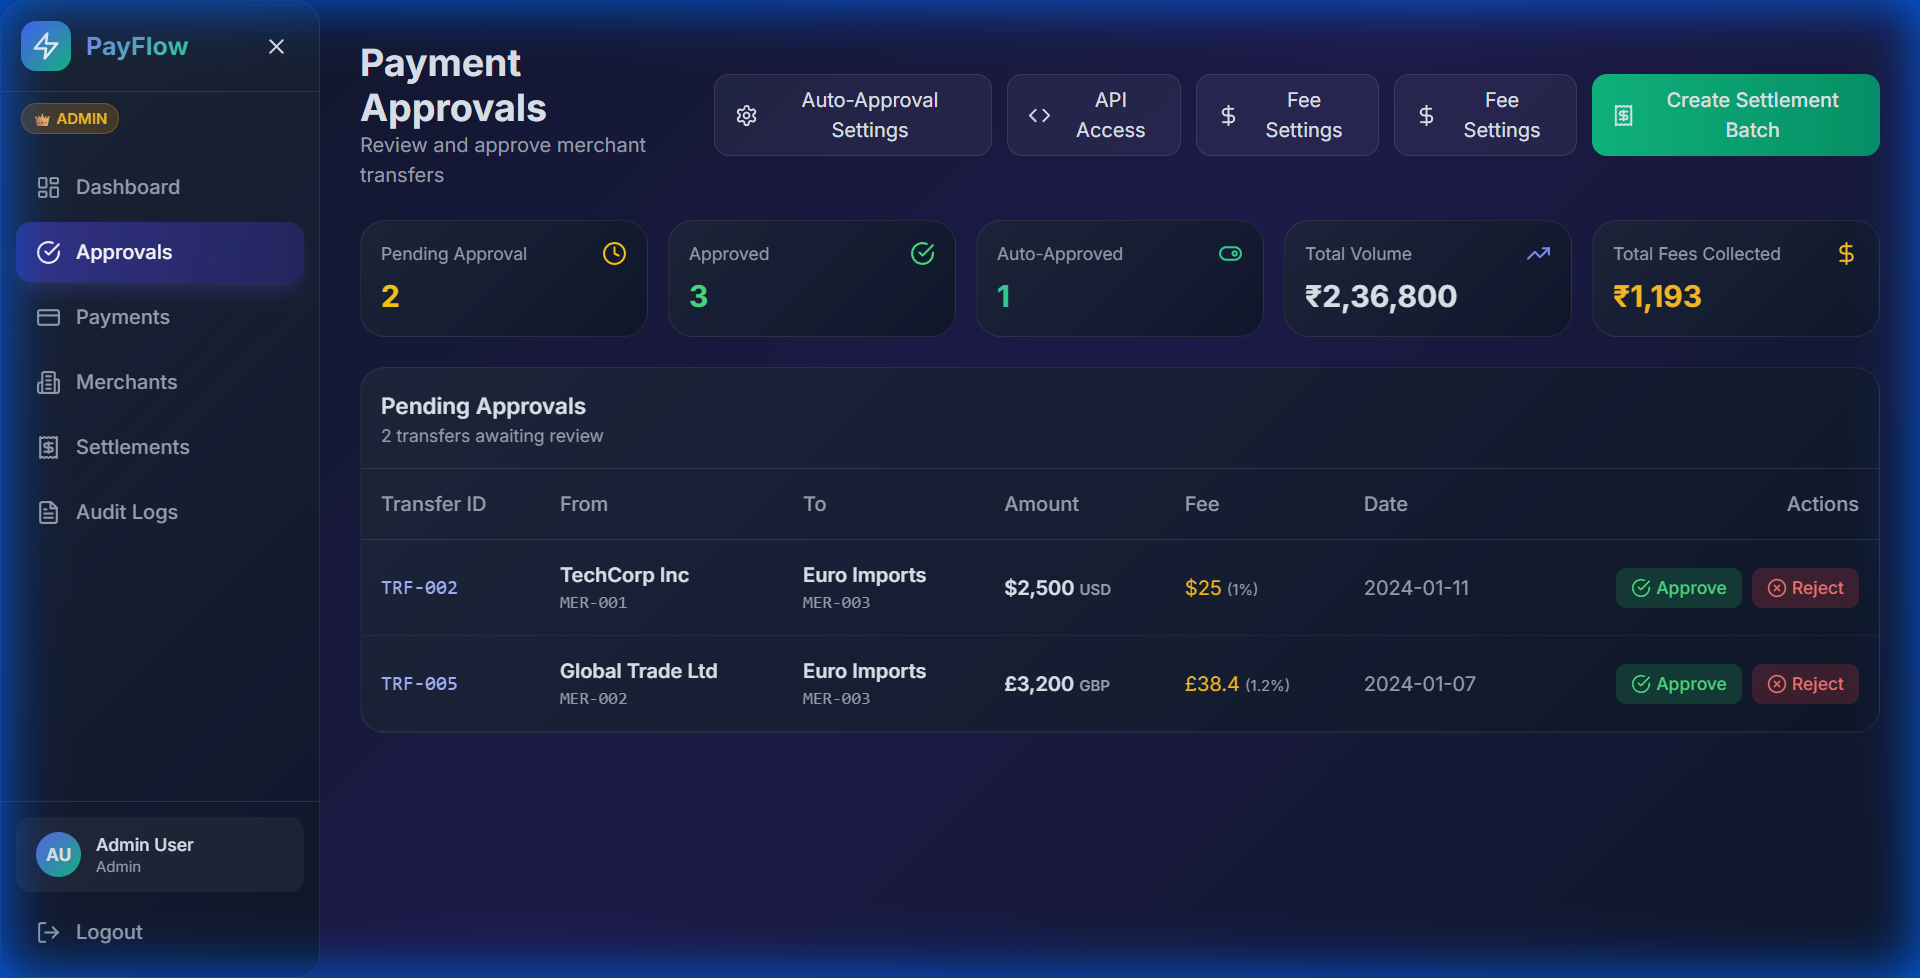
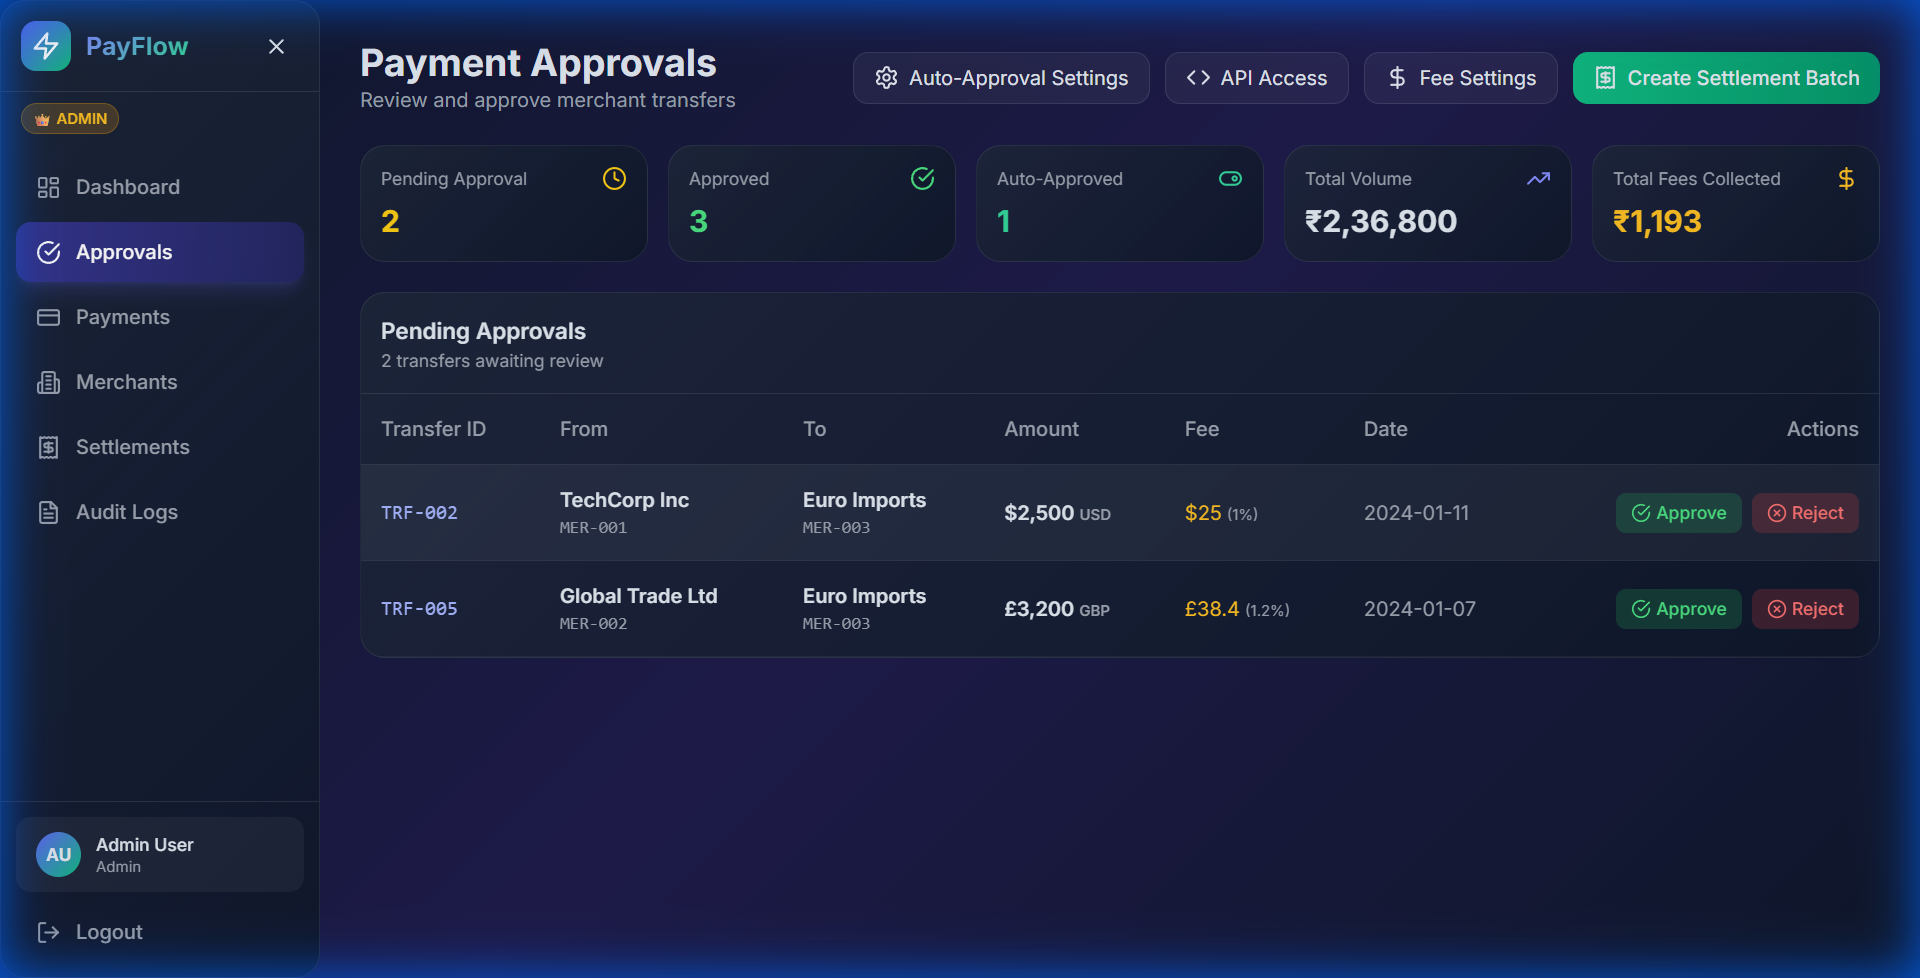
fix: Remove duplicate Fee Settings button from Admin Approvals page

diff --git a/frontend/src/pages/AdminApprovals.jsx b/frontend/src/pages/AdminApprovals.jsx
@@ -108,15 +108,6 @@ export default function AdminApprovals() {
           <motion.button
             whileHover={{ scale: 1.02 }}
             whileTap={{ scale: 0.98 }}
-            onClick={() => setShowFeeModal(true)}
-            className="flex items-center gap-2 px-4 py-2 bg-white/5 hover:bg-white/10 border border-white/10 rounded-xl transition-all"
-          >
-            <DollarSign className="w-5 h-5" />
-            Fee Settings
-          </motion.button>
-          <motion.button
-            whileHover={{ scale: 1.02 }}
-            whileTap={{ scale: 0.98 }}
             onClick={handleCreateBatch}
             className="flex items-center gap-2 px-4 py-2 bg-gradient-to-r from-accent-500 to-accent-600 rounded-xl font-medium"
           >
